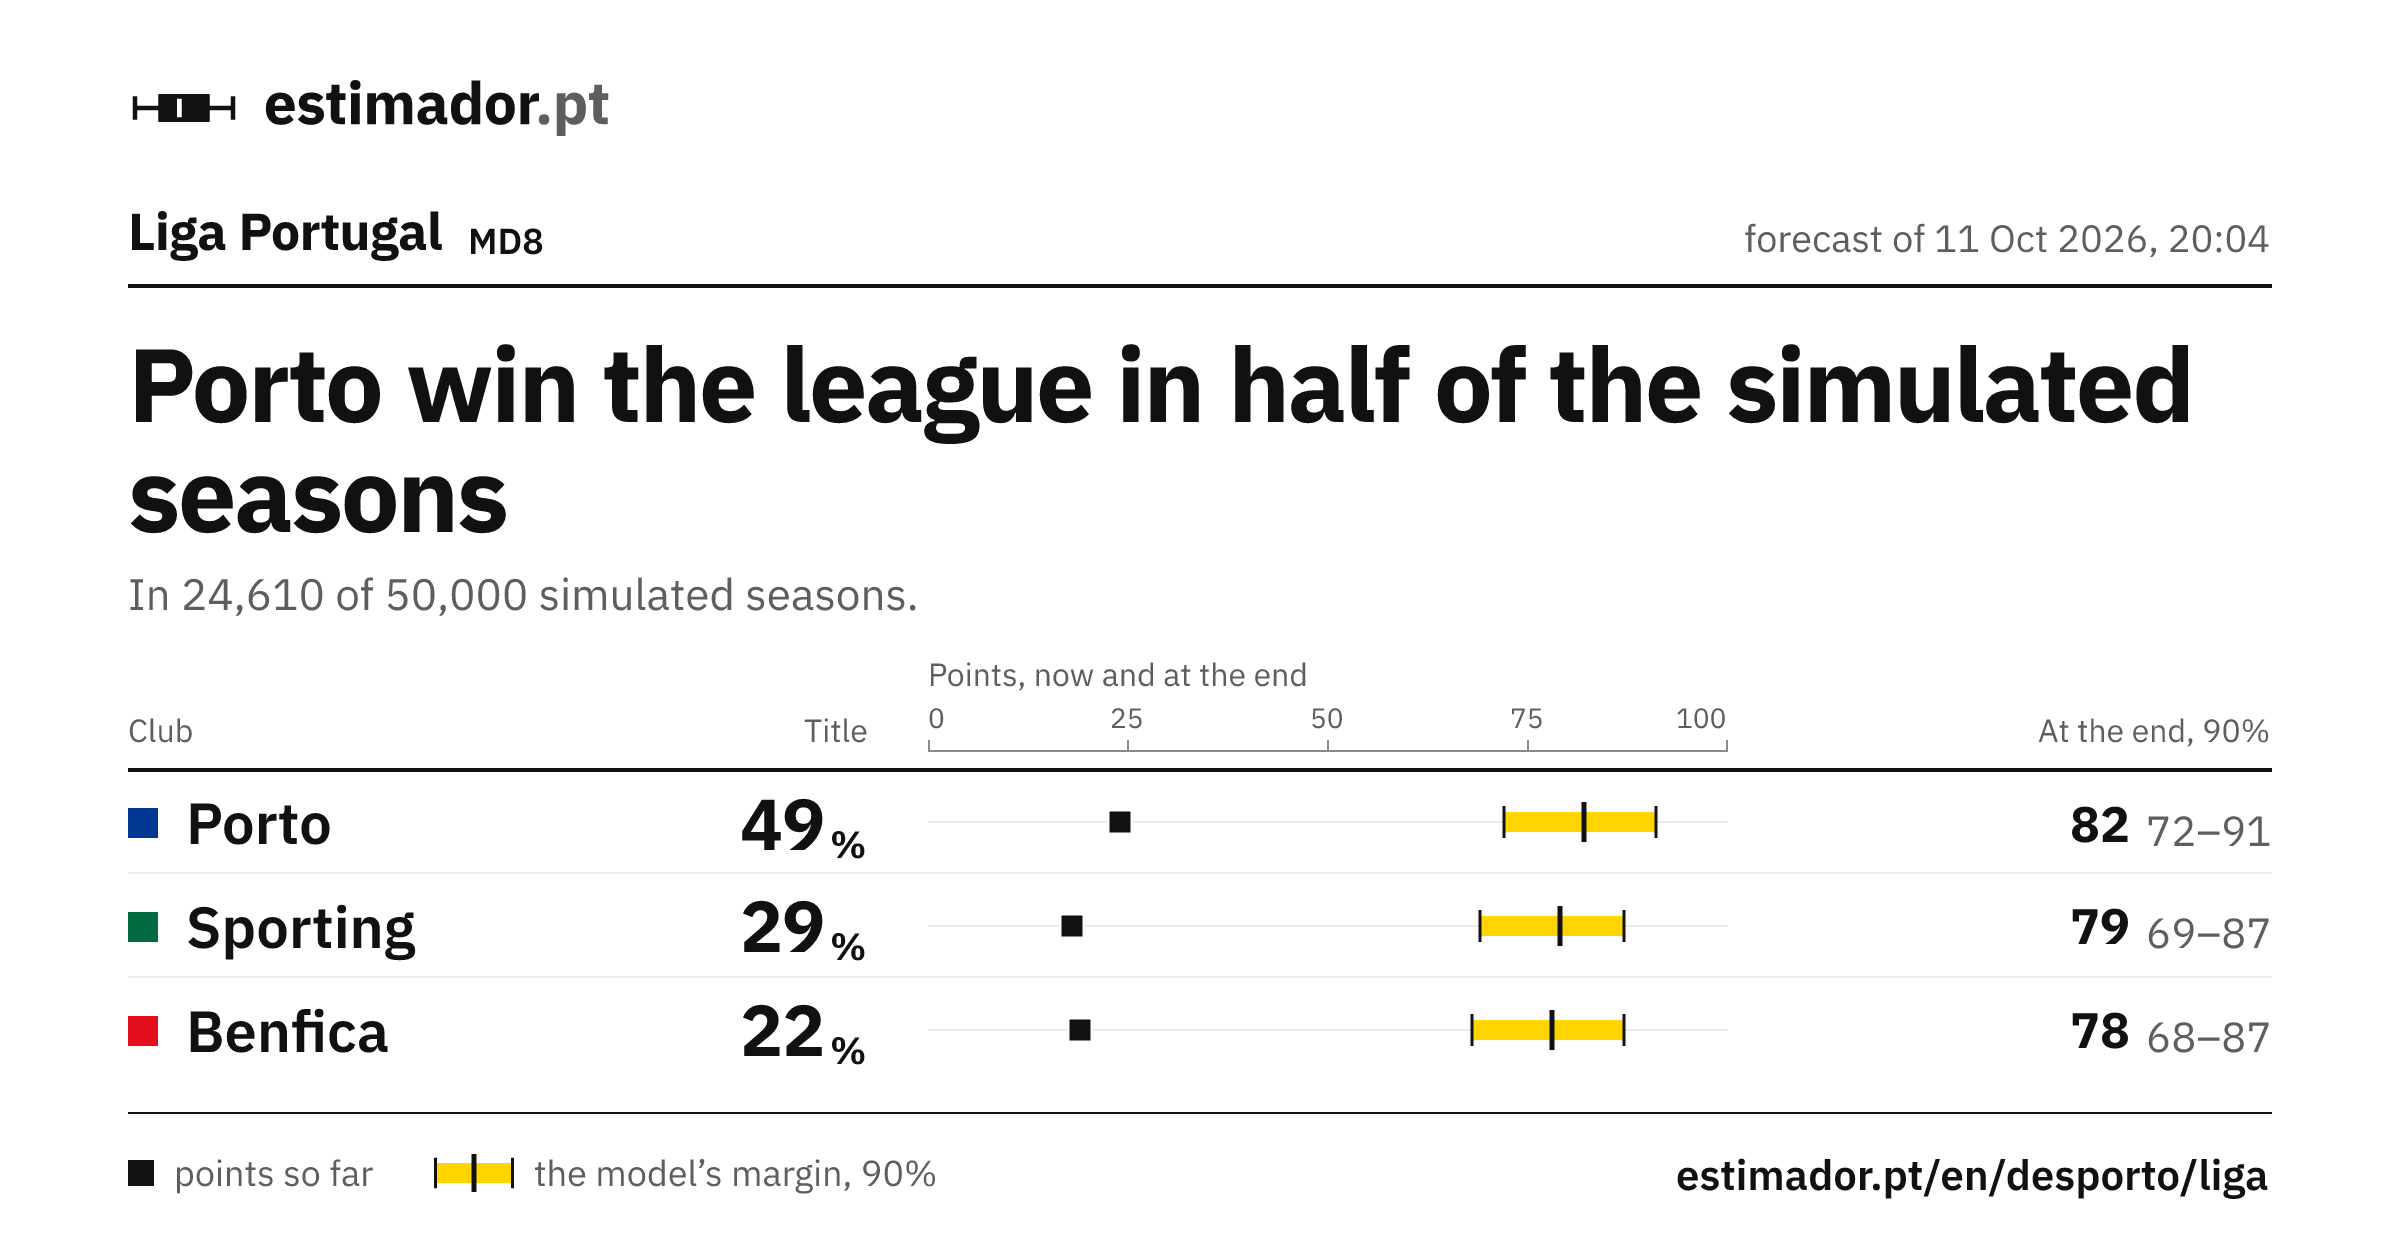
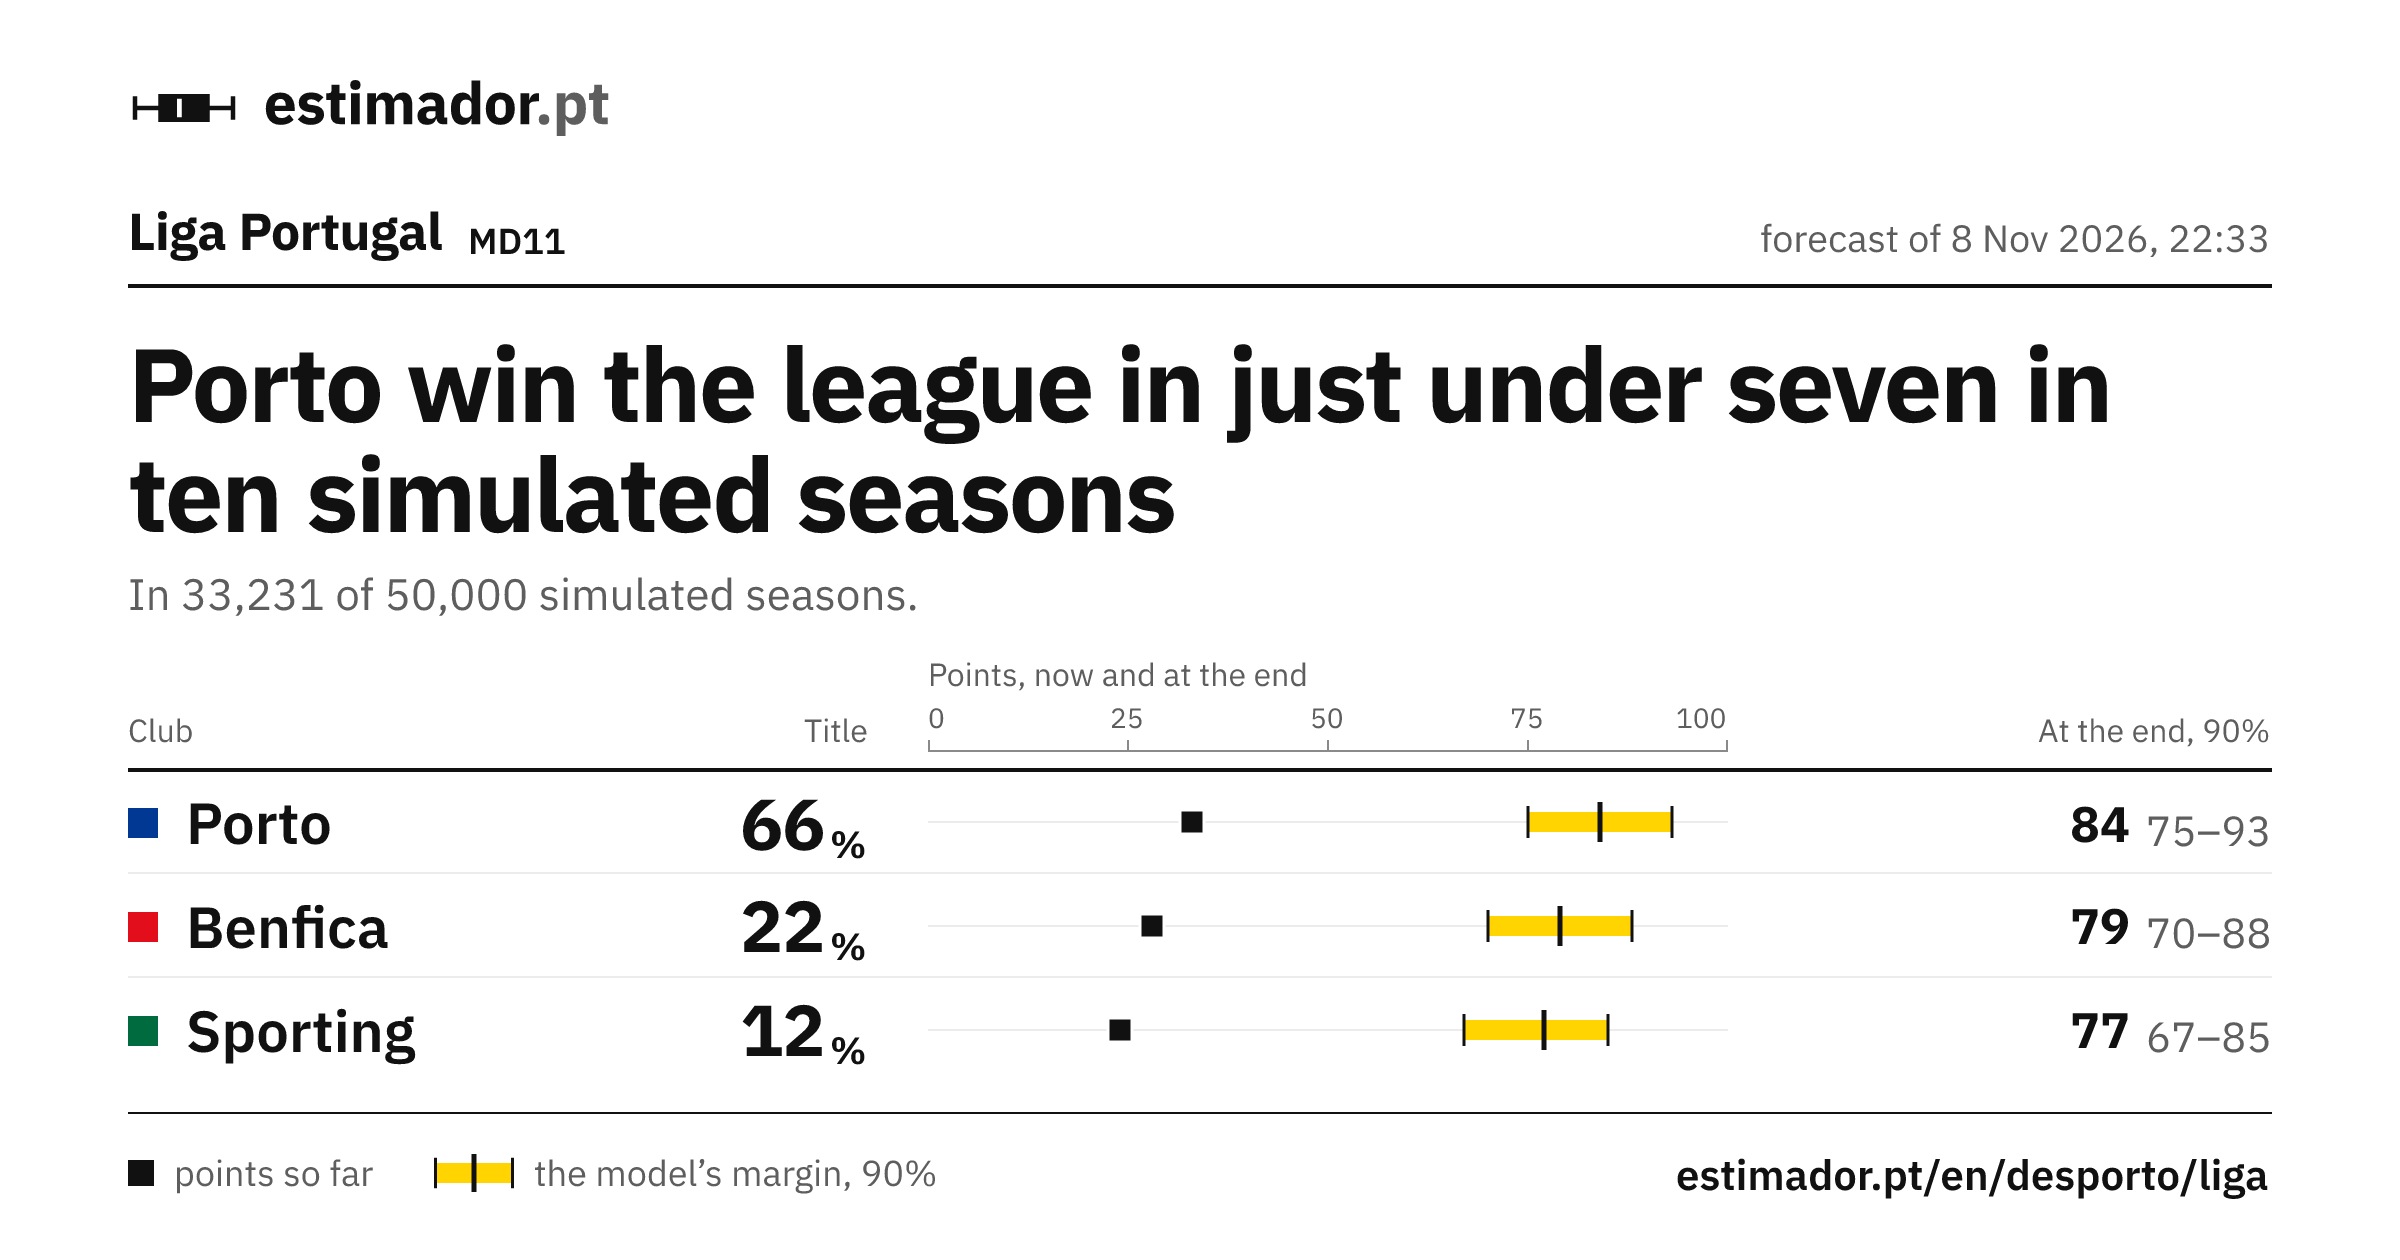
artigos: publish the housing-rules explainer, fact-checked to 18 Nov 2026
- Corrections from a source check: 2025 Câmara seats (Viver Lisboa list,
  CDU), 'no list held an absolute majority', São Lázaro dated June 2017 and
  followed to Dec 2024, Paço da Rainha made public in Dec 2022, the AM vote
  of March 2022, Matinha count stated as an assumption, three Euribor annual
  means (ECB monthly series), the 2.5% threshold on permanent homes,
  Campolide before Beato, the 6% VAT's own-home and mainland limits.
- Drops the game section: its link (bernardocaldas.github.io/habitacao) is
  a 404 until Pages is switched on.
- Byline estimador.pt, per the owner's rule (name only in the footer and
  /sobre); the byline test and the note scaffold follow it.
- draft removed, slug list and OG card regenerated.

Claude-Session: https://claude.ai/code/session_01KHsrY3c5FYNYjQPHsHKNwj

diff --git a/src/lib/content.test.ts b/src/lib/content.test.ts
@@ -132,14 +132,12 @@ describe('article registers', () => {
     }
   });
 
-  // The byline is emitted as a schema.org Person and as dc:creator. The site's
-  // own name in that slot is both wrong markup and the wrong positioning for
-  // analysis that wants to be cited.
-  it('carry a named byline rather than the publication itself', () => {
+  // Owner decision (11 October 2026): the owner's name appears only in the
+  // footer's credit line and on /sobre, so a piece is signed by the publication.
+  it('are signed by the publication, not a person', () => {
     for (const locale of SITE_LOCALES) {
       for (const article of publishedArticles(locale)) {
-        expect(article.author, `${locale}/${article.slug}`).not.toBe('estimador.pt');
-        expect(article.author.split(' ').length, `${locale}/${article.slug}`).toBeGreaterThan(1);
+        expect(article.author, `${locale}/${article.slug}`).toBe('estimador.pt');
       }
     }
   });

diff --git a/src/lib/published-articles.generated.ts b/src/lib/published-articles.generated.ts
@@ -3,5 +3,5 @@
 // Slugs of every published article, in either language. analyticsPath() checks
 // a path under /artigos against this list instead of trusting the URL.
 export const PUBLISHED_ARTICLE_SLUGS: readonly string[] = [
-
+  'as-regras-da-habitacao-mudam-a-meio-dos-projetos',
 ];
